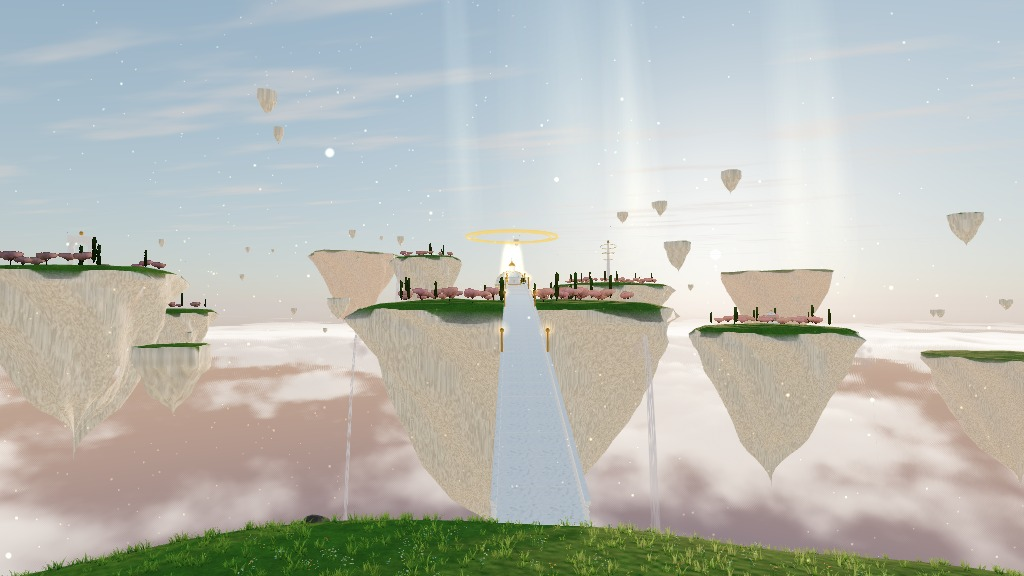
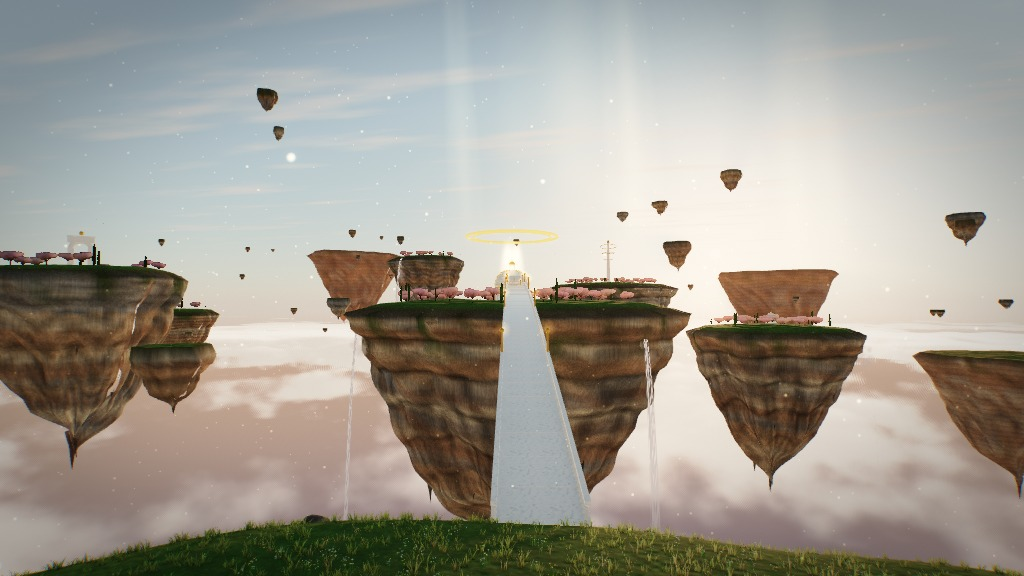
README and gallery: post stack, harness post field, refreshed opening views
Documents the post-processing stack and the harness 'post' job field, drops
known gaps the world upgrades closed (Sphinx face, glyph colour, trench grid,
fish flocking, restored-stone relief, Urban sills and balconies) and replaces
the seventeen opening-view renders with frames from the merged build.

Claude-Session: https://claude.ai/code/session_01YEDnN7meQkyk6cxX4KGA4D

diff --git a/README.md b/README.md
@@ -97,6 +97,12 @@ All code lives in `index.html`, grouped into these sections:
 - **Renderer:** WebGL2 with MSAA, a logarithmic depth buffer (no z-fighting from 0.5 m to 16 km),
   ACES filmic tone mapping, PCF soft shadows on a texel-snapped shadow camera that follows the viewer,
   and a physical sky (`Sky.js`) that also feeds image-based lighting through PMREM.
+- **Post:** the scene renders into a half-float target that three treats like the canvas, so every material keeps its
+  tone mapping and sRGB output. On top run depth-aware ambient occlusion reconstructed from the logarithmic depth
+  buffer (Balanced and Ultra), a dual-filter bloom (the open sky blooms only at the sun's disc), sun shafts marched
+  from the unoccluded sky, a grade (white balance by sun height, saturation, a shadow-only contrast curve), vignette,
+  slight edge fringing, FXAA at Fast, and a dither against banding. A world tunes it with `post:{ bloom, thresh,
+  shafts, ao, aoR, sat, contrast, warm, vig, tint }` in its definition, or live with `active.post`.
 - **Atmosphere:** sun and moon lighting, exponential fog tinted per biome, stars, rain streaks, lightning and
   shared wind uniforms. Clouds are volumetric: a raymarched cumulus slab (3D noise, sun-marched self shadowing,
   dual-lobe phase function, powder term) plus a cirrus deck, drawn on a sky dome. Each biome sets its own
@@ -398,7 +404,8 @@ node shot.mjs ../../index.html out/check \
 Each job saves a JPEG and prints the triangle count and draw calls. A job accepts `biome`, `q`, `tod`,
 `wx` (`clear`, `rain`, `fog`), `cam` (`[x, y, z, yaw, pitch]`), `opt` (`["season", "winter"]`), `strike`
 (`[["fire", x, z, radius, intensity], ...]`), `sim` (seconds of weather, surface and wildlife to advance before the
-frame) and `steps`. The engine exposes `window.__helios` (`load`, `setQuality`, `snap`, `stats`, `sim`, `strike`,
+frame), `post` (merged into the world's post settings; `{"debug":1}`, `2` or `3` shows the bloom, AO or shaft
+buffer) and `steps`. The engine exposes `window.__helios` (`load`, `setQuality`, `snap`, `stats`, `post`, `sim`, `strike`,
 `option`, `status`) only for this harness. `PORT` sets the harness server port.
 
 The surface package has its own tests: `cd extensions/surface-state && npm test` (Node 18+).
@@ -419,9 +426,10 @@ legacy/                        The original GLSL ES 3.00 raymarched version this
   counts only. At Balanced the Amazon runs about 1.3 to 2.4 million triangles and Egypt about 0.5 to 1.7 million,
   depending on the view. Ground cover density and radius scale with the Fast, Balanced and Ultra levels.
 - The volumetric clouds are the most expensive screen-space pass (14, 28 and 40 march steps per quality level).
-  Far cloud detail is dropped past a fixed distance, and cloud edges can show faint dither banding.
-- Egypt's interior chambers and hieroglyph colour are not modelled; the pylon glyphs are procedural marks, not real
-  text, and the Sphinx's face is a simplified block.
+  Far cloud detail is dropped past a fixed distance. The post stack adds about a dozen full-screen passes at reduced
+  resolution; like everything else it was only measured in software.
+- Egypt's interior chambers are not modelled; the pylon glyphs are procedural painted marks, not real text, and the
+  colossi have no faces. Noon still reads hazy, as in most open worlds under a high sun.
 - The Volcanic and Haven worlds add point lights, extra transparent passes (plume, waterfalls, light beams) and a
   second reflection on the Haven pool at Balanced and Ultra; like the rest, they were only measured in software
   (about 0.6 to 1.5 million triangles at Balanced).
@@ -444,9 +452,8 @@ legacy/                        The original GLSL ES 3.00 raymarched version this
   change of eye height. Herons, dragonflies and wisps follow simple CPU rules.
 - The Underwater world's zone depths are compressed (sunlit to 60 m, twilight to 200 m, midnight to 450 m, abyssal
   below) so all four fit in a 650 m trench; pressure is computed from the real depth. Swimming collides with the
-  seabed, cavern domes and the surface only; ruins, kelp and coral can be swum through. Fish schools steer toward a
-  wandering centre rather than flocking, and the vent plumes are only lit by their own glow. The trench floor under
-  the vent lights shows the terrain's value-noise bump faintly as a grid.
+  seabed, cavern domes and the surface only; ruins, kelp and coral can be swum through. Fish schools flock around a
+  wandering centre, and the vent plumes are only lit by their own glow.
 - The Caverns floor and roof are one height field each, so passages cannot cross over one another and overhanging
   walls are limited to the roof's own slope; walls are faceted at the grid (2.5 m at Balanced).
 - Cave sounds (reverb, drips, river) could not be listened to in the headless harness; only the chamber-size and
@@ -461,10 +468,9 @@ legacy/                        The original GLSL ES 3.00 raymarched version this
 - The Ruins' falling stones collide with the ground and the built surfaces but not with each other, so rubble piles can
   interpenetrate; drums are treated as boxes when they land and do not roll.
 - Walls only block movement in the Ruins' underground passages; above ground the viewer still passes through masonry.
-- Restored buildings are simple painted volumes (no interiors, carved facades or stucco masks), and the restored and
-  excavated stone has no normal map, so it reads flat at noon.
-- The Urban world's facades are boxes with shader-drawn windows: there are no interiors, balconies or sills, and the
-  window pattern can shimmer slightly on distant towers before it fades to an average.
+- Restored buildings are painted volumes with glyph friezes and plaster relief, but no interiors or stucco masks.
+- The Urban world's facades are boxes with shader-drawn windows: sills, lintels, ledges and grime are drawn
+  in the shader and about a third of tenements carry balconies, but there are no interiors.
 - Walls are solid for the viewer (push-out collision) and for debris only. Cars follow their lane behind each other and
   obey the signals, but never turn or change lanes.
 - Destruction is local (chunks, scars, toppling chimneys and billboards); whole buildings do not collapse, and fire on
